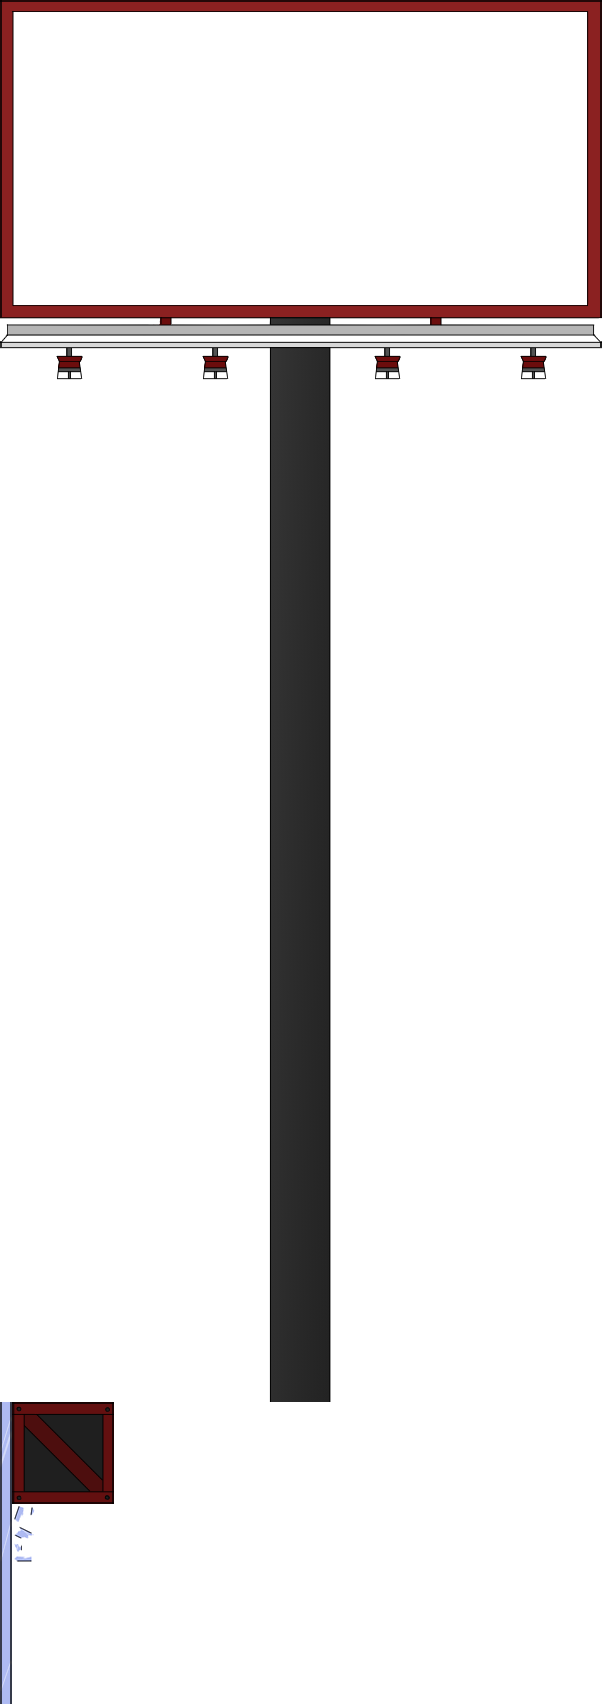
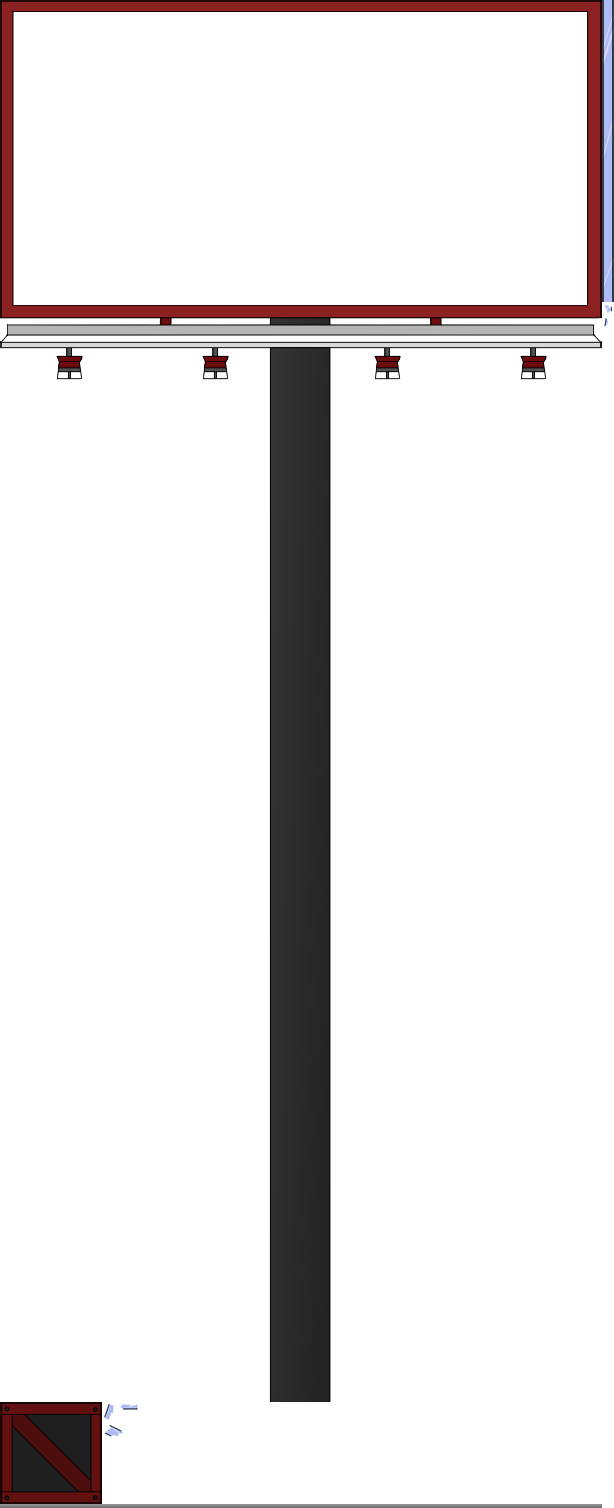
Sprite 적용

Changed region(s): [[0.0, 0.0, 1.0, 0.935], [0.0, 0.8103, 0.9867, 1.0]]

diff --git a/src/components/game/obstacles/building.ts b/src/components/game/obstacles/building.ts
@@ -1,19 +1,23 @@
 import GameSettings from 'src/assets/settings';
 import BaseObstacle from 'src/components/game/obstacles/base';
+import { Texture } from 'src/types/image';
 
 export default class BuildingObstacle extends BaseObstacle {
-  public buildingTop: Phaser.GameObjects.Rectangle;
+  public buildingTop: Phaser.GameObjects.Sprite;
+  public buildingInside: Phaser.GameObjects.Sprite;
 
   protected initialize(): void {
-    const buildingTop = this.scene.add.rectangle(0, 0, 2500, 1000, 0xaaaaff)
+    const buildingInside = this.scene.add.sprite(0, 0, Texture.BuildingInside)
+      .setOrigin(0, 0.5);
+    const buildingTop = this.scene.add.sprite(0, 0, Texture.BuildingTop)
       .setOrigin(0, 1);
 
     this
-      .setSize(2500, 1000)
-      .setFillStyle(0xaaaaff)
+      .setTexture(Texture.BuildingBottom)
       .setOrigin(0, 0);
 
     this.buildingTop = buildingTop;
+    this.buildingInside = buildingInside;
     this.scene.physics.add.existing(this, true);
     this.scene.physics.add.existing(this.buildingTop, true);
 
@@ -33,6 +37,8 @@ export default class BuildingObstacle extends BaseObstacle {
     this.scene.physics.world.remove(this.buildingTop.body as Phaser.Physics.Arcade.Body);
     this.buildingTop.setActive(false);
     this.buildingTop.setVisible(false);
+    this.buildingInside.setActive(false);
+    this.buildingInside.setVisible(false);
 
     return super.kill();
   }
@@ -43,6 +49,9 @@ export default class BuildingObstacle extends BaseObstacle {
     this.buildingTop.setPosition(x, y - height);
     this.buildingTop.setActive(true);
     this.buildingTop.setVisible(true);
+    this.buildingInside.setPosition(x, y - height / 2);
+    this.buildingInside.setActive(true);
+    this.buildingInside.setVisible(true);
     this.scene.physics.world.add(this.buildingTop.body as Phaser.Physics.Arcade.Body);
     (this.buildingTop.body as Phaser.Physics.Arcade.Body).reset(x, y - height);
 

diff --git a/src/components/game/obstacles/plane.ts b/src/components/game/obstacles/plane.ts
@@ -1,4 +1,8 @@
 import BaseObstacle from 'src/components/game/obstacles/base';
+import { Texture } from 'src/types/image';
+
+const FLY_ANIMATION_KEY = 'estelle_fly_';
+const HURT_FRAME = 'estelle_hurt_0000';
 
 export default class PlaneObstacle extends BaseObstacle {
   private ground: number;
@@ -10,22 +14,30 @@ export default class PlaneObstacle extends BaseObstacle {
 
   protected initialize(): void {
     this
-      .setSize(280, 120)
-      .setFillStyle(0xffff33)
+      .setTexture(Texture.Estelle, HURT_FRAME)
       .setOrigin(0, 0);
 
     this.scene.physics.add.existing(this, false);
     this.body.setSize(200, 90, false)
       .setOffset(40, 20);
 
-    this.particle = this.scene.add.particles('a');
+    this.scene.anims.create({
+      key: FLY_ANIMATION_KEY,
+      frames: this.scene.anims.generateFrameNames(Texture.Estelle, {
+        prefix: FLY_ANIMATION_KEY, end: 2, zeroPad: 4,
+      }),
+      frameRate: 12,
+      repeat: -1,
+    });
+
+    this.particle = this.scene.add.particles(Texture.Estelle, HURT_FRAME);
     this.emitter = this.particle.createEmitter({
       quantity: 1,
       angle: { min: -45, max: -30 },
       speed: { min: 400, max: 1000 },
-      rotate: { start: 0, end: 360 * 10 },
+      rotate: { start: 0, end: 360 * 8 },
       gravityY: 3000,
-      lifespan: 2000,
+      lifespan: { min: 2000, max: 4000 },
       frequency: -1,
     });
   }
@@ -73,6 +85,7 @@ export default class PlaneObstacle extends BaseObstacle {
   kill(): this {
     super.kill();
     this.timeline?.stop();
+    this.stop();
 
     return this;
   }
@@ -80,6 +93,8 @@ export default class PlaneObstacle extends BaseObstacle {
   reset(x: number, y: number, ground: number): this {
     this.isFlying = false;
     this.ground = ground;
+    this.play(FLY_ANIMATION_KEY);
+
     return super.reset(x, y);
   }
 }

diff --git a/src/scenes/loading.ts b/src/scenes/loading.ts
@@ -4,6 +4,12 @@ import YuriSpriteSheet from 'src/assets/images/yuri.png';
 import YuriSpriteAtlas from 'src/assets/images/yuri.json';
 import EstelleSpriteSheet from 'src/assets/images/estelle.png';
 import EstelleSpriteAtlas from 'src/assets/images/estelle.json';
+import ObjectSpriteSheet from 'src/assets/images/object.png';
+import ObjectSpriteAtlas from 'src/assets/images/object.json';
+import GroundImage from 'src/assets/images/ground.png';
+import BuildingTopImage from 'src/assets/images/building_top.png';
+import BuildingInsideImage from 'src/assets/images/building_inside.png';
+import BuildingBottomImage from 'src/assets/images/building_bottom.png';
 
 import BamibaltMusic from 'src/assets/sounds/Bamibalt_Theme.mp3';
 
@@ -37,6 +43,11 @@ export default class LoadingScene extends BaseScene {
     this.load.atlas(Texture.Bamiko, BamikoSpriteSheet, BamikoSpriteAtlas);
     this.load.atlas(Texture.Yuri, YuriSpriteSheet, YuriSpriteAtlas);
     this.load.atlas(Texture.Estelle, EstelleSpriteSheet, EstelleSpriteAtlas);
+    this.load.atlas(Texture.Object, ObjectSpriteSheet, ObjectSpriteAtlas);
+    this.load.image(Texture.Ground, GroundImage);
+    this.load.image(Texture.BuildingTop, BuildingTopImage);
+    this.load.image(Texture.BuildingInside, BuildingInsideImage);
+    this.load.image(Texture.BuildingBottom, BuildingBottomImage);
 
     this.load.audio(Music.Bamibalt, BamibaltMusic);
 

diff --git a/src/components/game/obstacles/window.ts b/src/components/game/obstacles/window.ts
@@ -1,5 +1,5 @@
-import GameSettings from 'src/assets/settings';
 import BaseObstacle from 'src/components/game/obstacles/base';
+import { Frame, Texture } from 'src/types/image';
 
 export default class WindowObstacle extends BaseObstacle {
   private isCrashed: boolean = false;
@@ -7,17 +7,15 @@ export default class WindowObstacle extends BaseObstacle {
   private emitter: Phaser.GameObjects.Particles.ParticleEmitter;
 
   protected initialize(): void {
-    const { height } = GameSettings.obstacle.building;
-
     this
-      .setSize(30, height)
-      .setFillStyle(0x3333ff)
-      .setAlpha(0.5)
+      .setTexture(Texture.Object, Frame.Window)
       .setOrigin(0, 0);
 
     this.scene.physics.add.existing(this, true);
-    this.particle = this.scene.add.particles('a');
+
+    this.particle = this.scene.add.particles(Texture.Object);
     this.emitter = this.particle.createEmitter({
+      frame: [0, 1, 2, 3, 4].map((i) => `window_shard_0${i}`),
       quantity: 20,
       angle: { min: -45, max: 45 },
       speed: { min: 400, max: 1000 },

diff --git a/src/components/game/obstacles/platform.ts b/src/components/game/obstacles/platform.ts
@@ -1,13 +1,34 @@
 import BaseObstacle from 'src/components/game/obstacles/base';
+import { Frame, Texture } from 'src/types/image';
 
 export default class PlatformObstacle extends BaseObstacle {
+  private billboard: Phaser.GameObjects.Sprite;
+
   protected initialize(): void {
-    this
-      .setSize(600, 2)
-      .setFillStyle(0x555555)
+    const billboard = this.scene.add.sprite(0, 0, Texture.Object, Frame.BillBoard)
       .setOrigin(0, 0);
 
+    this
+      .setTexture(Texture.Object, Frame.Platform)
+      .setOrigin(0, 0);
+
+    this.billboard = billboard;
     this.scene.physics.add.existing(this, true);
     this.body.checkCollision.left = false;
+  }
+
+  kill(): this {
+    this.billboard.setActive(false);
+    this.billboard.setVisible(false);
+
+    return super.kill();
+  }
+
+  reset(x: number, y: number): this {
+    this.billboard.setActive(true);
+    this.billboard.setVisible(true);
+    this.billboard.setPosition(x, y - 340);
+
+    return super.reset(x, y);
   }
 }

diff --git a/src/components/game/obstacles/box.ts b/src/components/game/obstacles/box.ts
@@ -1,4 +1,5 @@
 import BaseObstacle from 'src/components/game/obstacles/base';
+import { Frame, Texture } from 'src/types/image';
 
 export default class BoxObstacle extends BaseObstacle {
   private particle: Phaser.GameObjects.Particles.ParticleEmitterManager;
@@ -6,15 +7,14 @@ export default class BoxObstacle extends BaseObstacle {
 
   protected initialize(): void {
     this
-      .setSize(100, 100)
-      .setFillStyle(0xff3333)
+      .setTexture(Texture.Object, Frame.Box)
       .setOrigin(0, 0);
 
     this.scene.physics.add.existing(this, false);
     this.body.setSize(80, 90, false)
       .setOffset(10, 10);
 
-    this.particle = this.scene.add.particles('a');
+    this.particle = this.scene.add.particles(Texture.Object, Frame.Box);
     this.emitter = this.particle.createEmitter({
       quantity: 1,
       angle: { min: -45, max: -30 },

diff --git a/src/components/game/obstacles/base.ts b/src/components/game/obstacles/base.ts
@@ -2,13 +2,13 @@ import Phaser from 'phaser';
 import Bamiko from 'src/components/game/bamiko';
 import Poolable from 'src/components/objectPool/poolable';
 
-export default abstract class BaseObstacle
-  extends Phaser.GameObjects.Rectangle implements Poolable {
+export default abstract class BaseObstacle extends Phaser.GameObjects.Sprite implements Poolable {
   body: Phaser.Physics.Arcade.Body;
+
   protected bamiko: Bamiko;
 
   constructor(scene: Phaser.Scene, bamiko: Bamiko) {
-    super(scene, 0, 0);
+    super(scene, 0, 0, '');
     this.name = `${Phaser.Math.Between(1, 100000000)}`;
 
     this.bamiko = bamiko;

diff --git a/src/components/game/obstacles/ground.ts b/src/components/game/obstacles/ground.ts
@@ -1,10 +1,10 @@
 import BaseObstacle from 'src/components/game/obstacles/base';
+import { Texture } from 'src/types/image';
 
 export default class GroundObstacle extends BaseObstacle {
   protected initialize(): void {
     this
-      .setSize(2000, 1000)
-      .setFillStyle(0xffffff)
+      .setTexture(Texture.Ground)
       .setOrigin(0, 0);
 
     this.scene.physics.add.existing(this, true);

diff --git a/src/components/game/obstacleGroup/building.ts b/src/components/game/obstacleGroup/building.ts
@@ -13,6 +13,6 @@ export default class BuildingObstacleGroup extends BaseObstacleGroup {
 
     this.buildingPool.get(x, y);
     this.windowPool.get(x, y - height);
-    this.windowPool.get(x + this.width - 30, y - height);
+    this.windowPool.get(x + this.width - 10, y - height);
   }
 }

diff --git a/src/types/image.ts b/src/types/image.ts
@@ -13,4 +13,5 @@ export enum Frame {
   Box = 'box',
   Window = 'window',
   BillBoard = 'billboard',
+  Platform = 'platform',
 }
